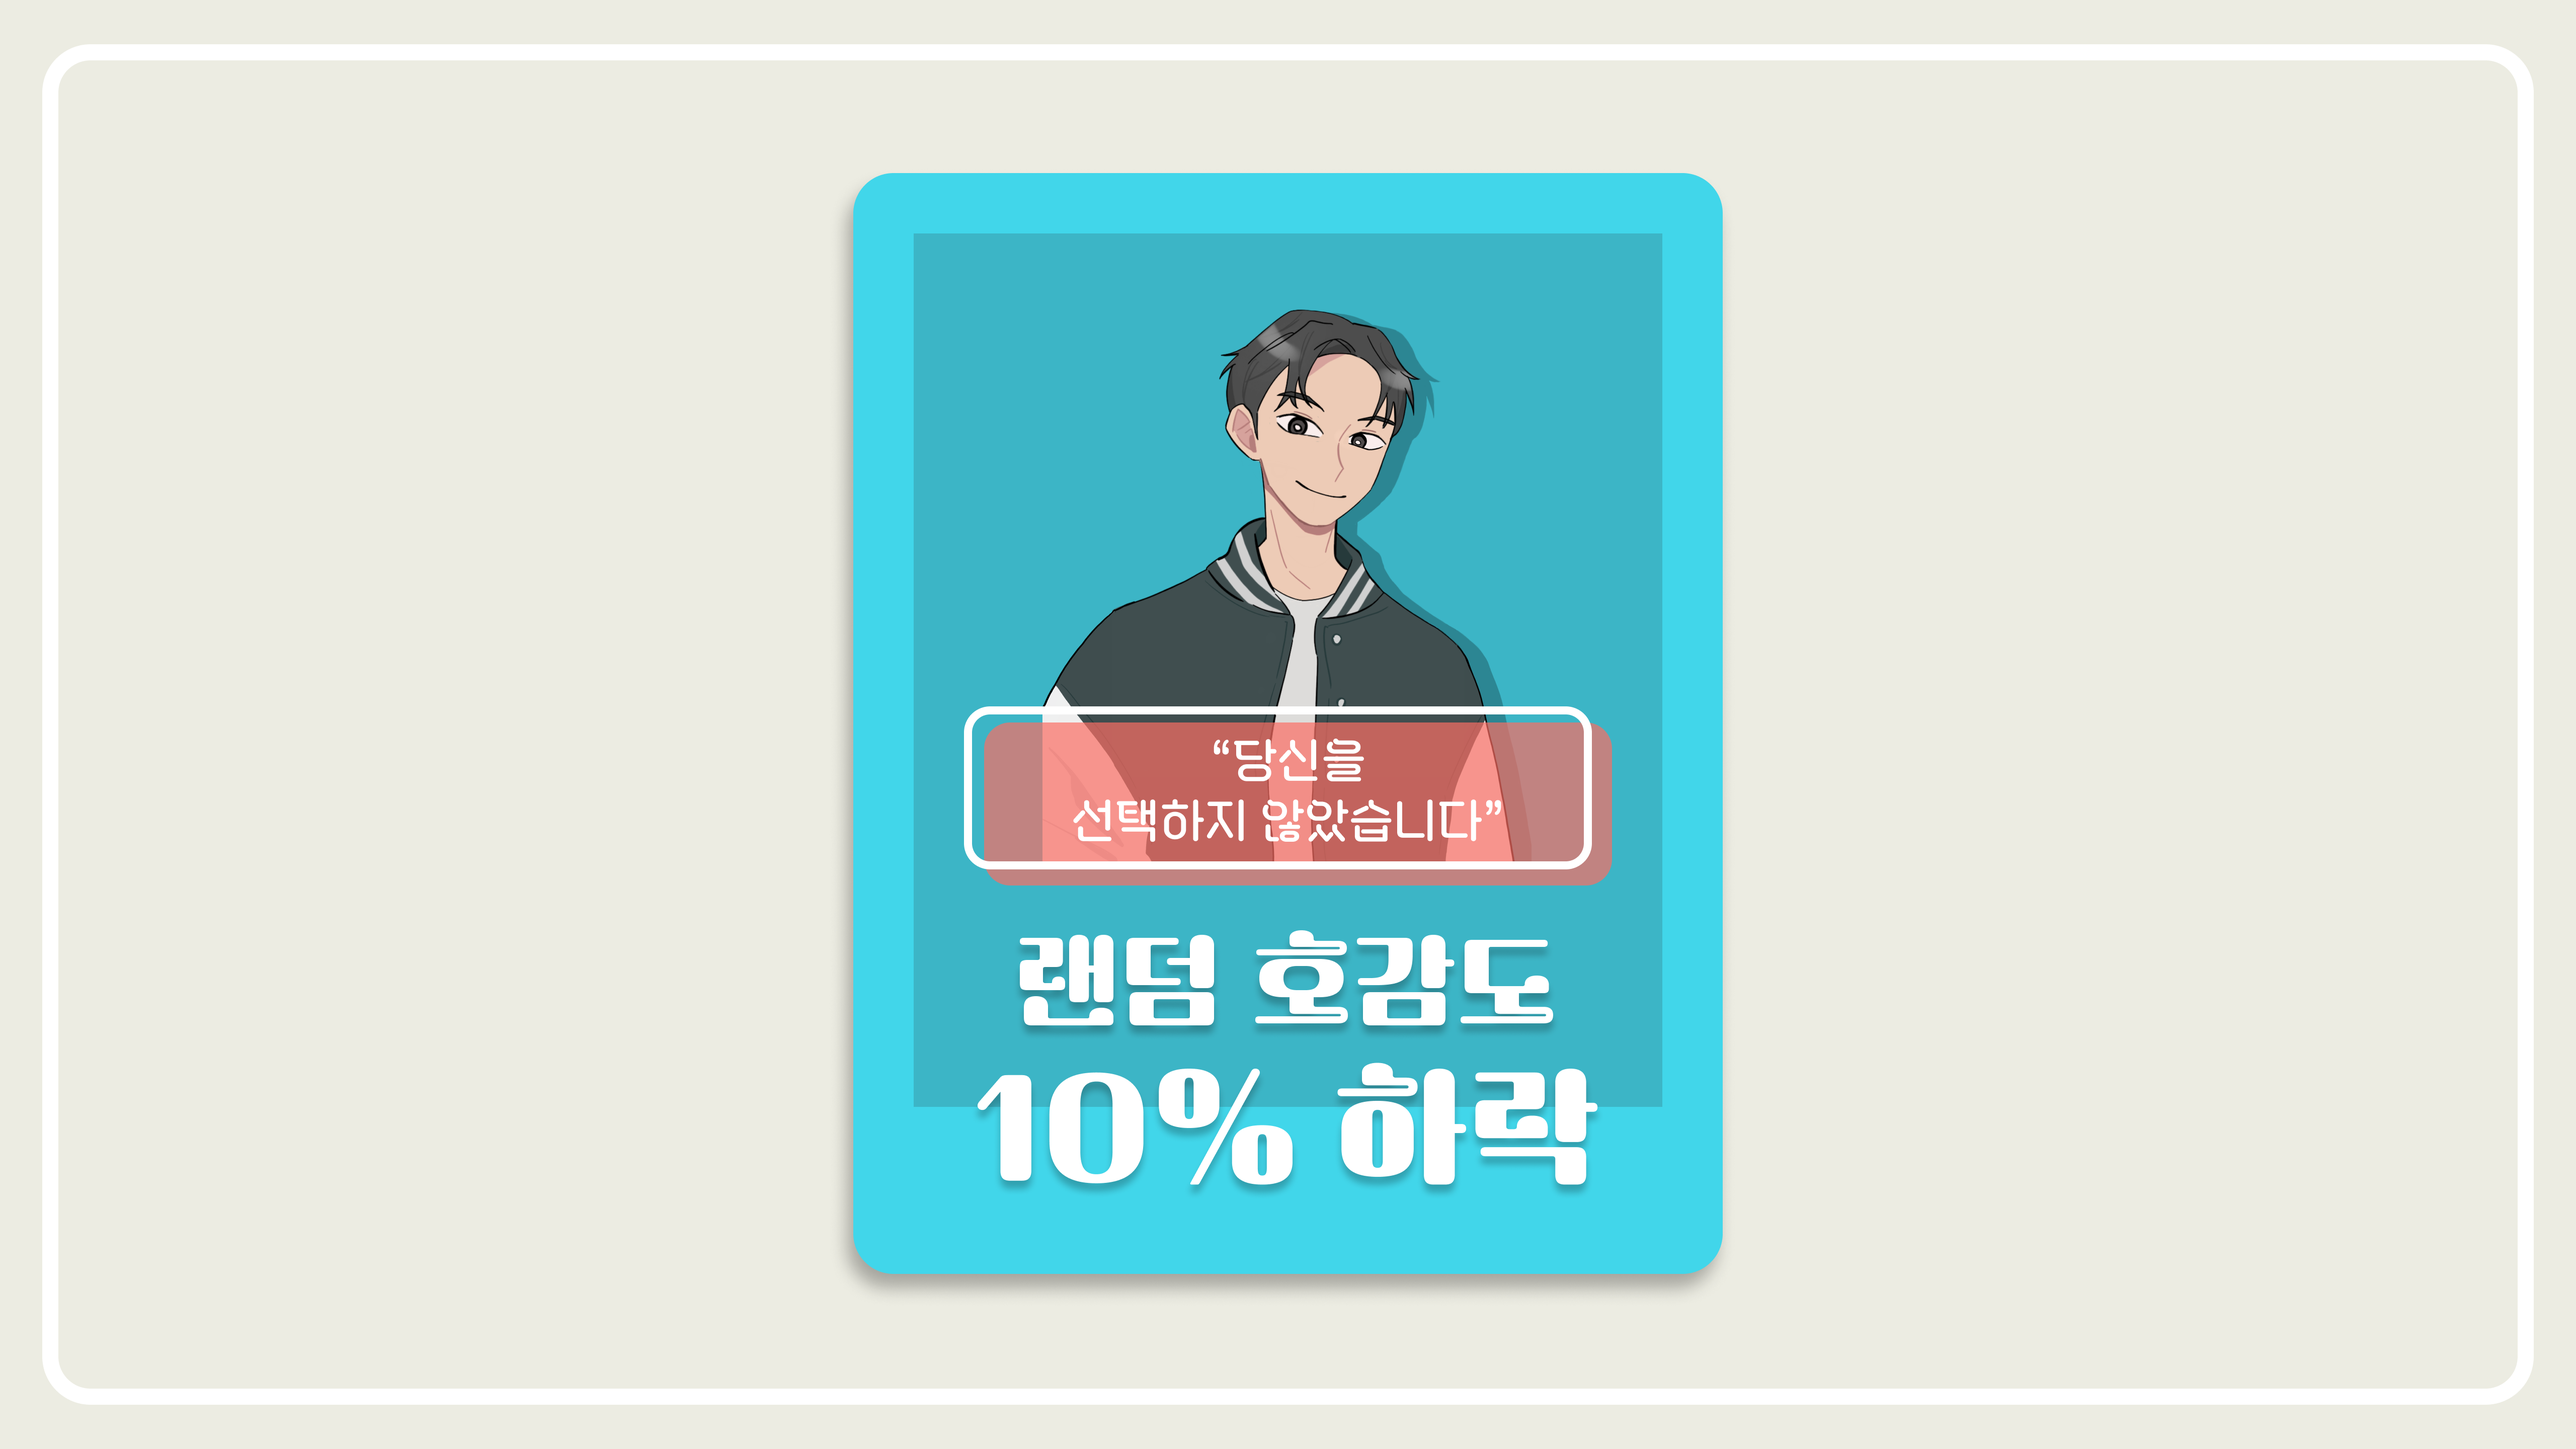
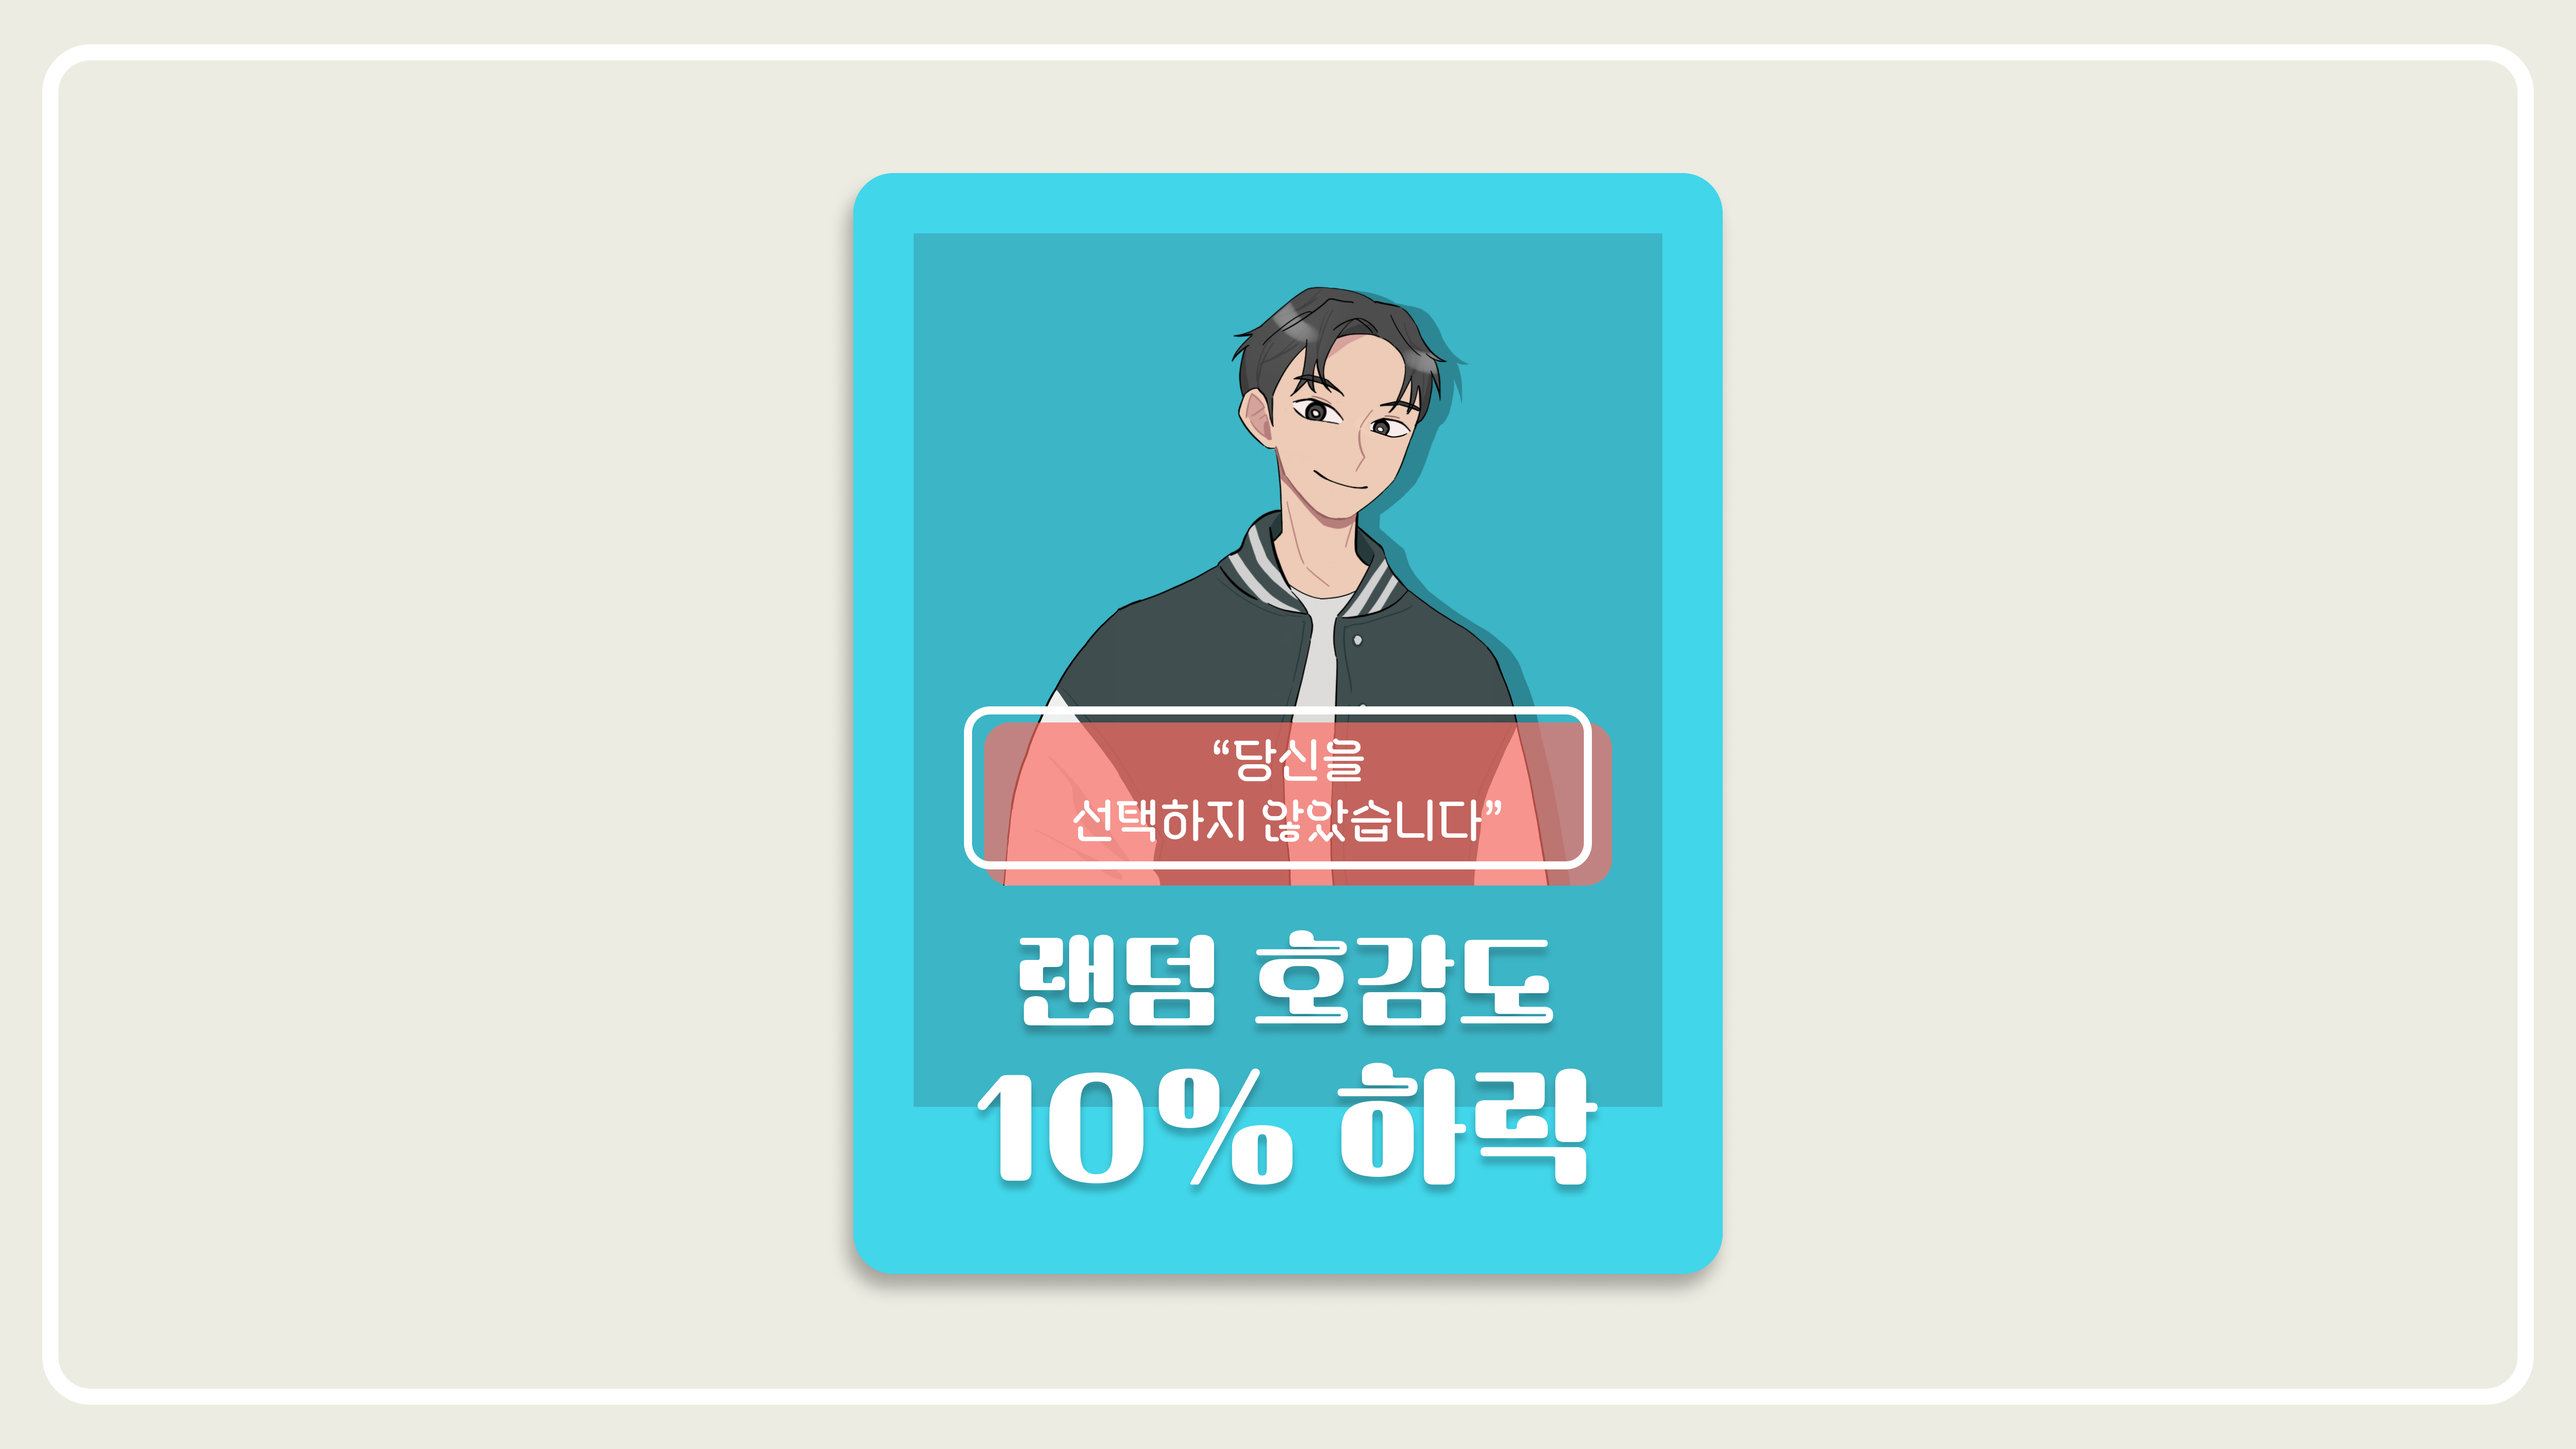
[feat]: 엔딩 메시지 반동 추가. 여기서 최종 엔딩만 합치면 끝!

Changed region(s): [[0.375, 0.1875, 0.625, 0.625]]

diff --git a/home.cpp b/home.cpp
@@ -1,6 +1,8 @@
 #include <SFML/Graphics.hpp> 
 #include <iostream>
+#include <SFML/Window.hpp>
 #include <SFML/System.hpp>
+#include <cmath>
 #include <vector>
 #include <string>
 
@@ -145,7 +147,7 @@ int main()
 	blockhover[23].loadFromFile("24h.png");
 
 	//주사위 시작
-	int count = 0;
+	int count = 10;
 	Texture diceTextures[6];
 	string filePath = "dice";
 	for (int i = 0; i < 6; i++) {
@@ -440,9 +442,16 @@ int main()
 	EndLT.loadFromFile("EndLetter.png");
 	Sprite EndL;
 	EndL.setTexture(EndLT);
+	const float initialX = 400.0f;
+	const float initialY = 300.0f;
+	const float finalX = 633.0f;
+	const float finalY = 330.0f;
+	EndL.setPosition(initialX, initialY);
 	EndL.setScale(0.25f, 0.25f);
-	EndL.setPosition(633, 330); 
-
+	EndL.setOrigin(EndL.getGlobalBounds().width / 2, EndL.getGlobalBounds().height / 2);
+	sf::Clock clock2; // 애니메이션 시간 관리를 위한 시계
+	bool animationStarted = false; // 애니메이션 시작 여부를 나타내는 변수
+	bool animationEnded = false;
 
 	Texture EndLH;
 	EndLH.loadFromFile("EndLetterH.png");
@@ -995,7 +1004,7 @@ int main()
 		if (Number == 1 && count != 0) Number += 1;
 
 		//주사위 시작 
-		if (rolling) {
+		if (rolling&&count!=13) {
 			elapsedTime = clock.getElapsedTime();
 			timeAccumulator += elapsedTime.asSeconds();
 			if (timeAccumulator >= updateTime) {
@@ -1067,6 +1076,28 @@ int main()
 			end = true;
 			dice = false;
 		}
+
+		if (end && !animationStarted)
+		{
+			clock2.restart(); // 애니메이션 시간을 다시 시작
+			animationStarted = true; // 애니메이션 시작
+		}
+
+		if (animationStarted && !animationEnded)
+		{
+			float time = clock2.getElapsedTime().asSeconds(); // 경과 시간 가져오기
+			if (time <= 15.0f) // 애니메이션이 5초 동안 지속됨
+			{
+				float bounce = std::sin(time * 10) * 10; // 반동 효과 적용 (주기와 진폭 조정 가능)
+				EndL.setPosition(finalX, finalY + bounce); // 스프라이트의 위치를 반동에 맞게 설정
+			}
+			else
+			{
+				EndL.setPosition(finalX, finalY); // 애니메이션이 끝난 후 스프라이트 위치 고정
+				animationEnded = true; // 애니메이션 종료 표시
+			}
+		}
+
 		if (end) {
 			app.draw(EndL);
 		}
